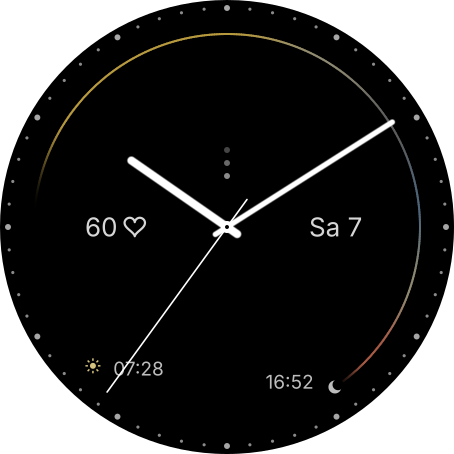
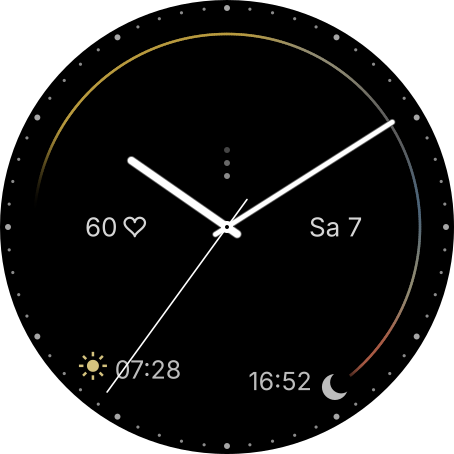
beta release 0.2.1

diff --git a/tools/render_previews.py b/tools/render_previews.py
@@ -41,18 +41,18 @@ def ticks():
 
 
 # Soft edge: two translucent layers (extra width, opacity) under the white core
-SOFT_EDGE = [(2.0, 0.25), (1.0, 0.5)]
+SOFT_EDGE = [(2.0, "#404040"), (1.0, "#808080")]   # white at 25 % / 50 % over black
 
 
 def hand(deg, length, tail, width, color="#ffffff", soft=True):
     # rounded bar drawn pointing up, then rotated around the centre
-    layers = (SOFT_EDGE if soft else []) + [(0.0, 1.0)]
+    layers = (SOFT_EDGE if soft else []) + [(0.0, color)]
     out = []
-    for extra, opacity in layers:
+    for extra, fill in layers:
         w = width + extra
         out.append(
             f'<rect x="{C - w / 2:.2f}" y="{C - length - extra / 2:.2f}" width="{w}" '
-            f'height="{length + tail + extra}" rx="{w / 2}" fill="{color}" fill-opacity="{opacity}" '
+            f'height="{length + tail + extra}" rx="{w / 2}" fill="{fill}" '
             f'transform="rotate({deg:.2f} {C} {C})"></rect>'
         )
     return "".join(out)
@@ -119,7 +119,7 @@ def _color_at(h):
     return WEATHER[FORECAST[-1][1]]
 
 
-def weather_arc(r, width=2):
+def weather_arc(r, width=2.5):
     now = (H % 12) + M / 60 + S / 3600
     end = SUNSET[0] - 12 + SUNSET[1] / 60 + 12  # keep 24 h value for colours
     out, step = [], 1 / 60
@@ -156,20 +156,20 @@ def extras():
     # day arc: from "now" (hour hand) to sunset, radius 193, in forecast colours
     r = 193
     out.append(weather_arc(r))
-    for (h, m), off in ((SUNRISE, -12), (SUNSET, 12)):
+    for (h, m), off in ((SUNRISE, -15), (SUNSET, 15)):
         x, y = ppt(r, dial(h, m))
         if (h, m) == SUNRISE:   # small sun: disc with eight rays
-            out.append(f'<circle cx="{x:.2f}" cy="{y:.2f}" r="3" fill="{SUN}"></circle>')
+            out.append(f'<circle cx="{x:.2f}" cy="{y:.2f}" r="6" fill="{SUN}"></circle>')
             for i in range(8):
                 a = math.radians(i * 45)
-                out.append(f'<line x1="{x + 5 * math.sin(a):.2f}" y1="{y - 5 * math.cos(a):.2f}" '
-                           f'x2="{x + 7.5 * math.sin(a):.2f}" y2="{y - 7.5 * math.cos(a):.2f}" '
-                           f'stroke="{SUN}" stroke-width="1.5"></line>')
+                out.append(f'<line x1="{x + 9.5 * math.sin(a):.2f}" y1="{y - 9.5 * math.cos(a):.2f}" '
+                           f'x2="{x + 14 * math.sin(a):.2f}" y2="{y - 14 * math.cos(a):.2f}" '
+                           f'stroke="{SUN}" stroke-width="2.5"></line>')
         else:                   # small crescent moon: disc with a black disc cut out
-            out.append(f'<circle cx="{x:.2f}" cy="{y:.2f}" r="6.5" fill="{TXT}"></circle>')
-            out.append(f'<circle cx="{x + 3.1:.2f}" cy="{y - 2.3:.2f}" r="5.5" fill="#000000"></circle>')
-        lx, ly = ppt(167, dial(h, m) + off)
-        out.append(text(lx, ly, f"{h:02d}:{m:02d}", 19, TXT))
+            out.append(f'<circle cx="{x:.2f}" cy="{y:.2f}" r="13" fill="{TXT}"></circle>')
+            out.append(f'<circle cx="{x + 6.2:.2f}" cy="{y - 4.6:.2f}" r="11" fill="#000000"></circle>')
+        lx, ly = ppt(163, dial(h, m) + off)
+        out.append(text(lx, ly, f"{h:02d}:{m:02d}", 25, TXT))
     # date and heart rate
     # date and heart: inner edges 82 px from the centre, heart exactly as tall as the digits
     size = 26

diff --git a/README.md b/README.md
@@ -19,7 +19,7 @@ Free, open-source watch faces for Garmin® smartwatches, built with the Connect 
   - Softly coloured by the hourly forecast: muted yellow for sun, grey for clouds, blue-grey for rain, cool grey for snow, evening red before a clear sunset. Colours blend smoothly from hour to hour.
   - Fades in about an hour before the hour hand and fades out towards sunset.
   - Sunrise is marked with a small yellowish sun, sunset with a small crescent moon, each with its time (12/24-hour as set on the watch).
-  - At night a dark grey arc runs to the next sunrise. Without weather data the arc stays grey.
+  - At night the arc is hidden; only the sun and moon markers with their times remain. Without weather data the arc stays grey.
 - **Date** at 3 o'clock, e.g. "Sa 7", in your watch's language.
 - **Heart rate** at 9 o'clock: the heart is always there, exactly as tall as the date digits; the number appears to its left only while a live reading is available.
 - **Notifications:** one small dot per unread phone notification, stacked towards 12 o'clock and fading as they go up. **Press and hold** the dots to open the notification list.
@@ -38,7 +38,7 @@ The second hand is only visible while the watch is "awake" (after a wrist turn o
 ### Privacy and permissions
 
 - No internet access of its own, no background service, no data collection, no tracking.
-- Permission **ComplicationSubscriber**: reads sunrise, sunset and the date from the watch, and opens the notification list.
+- Permission **ComplicationSubscriber**: fallback for sunrise and sunset, and opening the notification list.
 - Weather comes from the watch's own weather data (delivered by the Garmin Connect app); the heart rate from the watch's sensor.
 
 ### Supported watches
@@ -150,13 +150,13 @@ tools/render_previews.py       regenerates the preview image and the launcher ic
 
 | Shown | Source |
 |---|---|
-| Sunrise, sunset | native complications `COMPLICATION_TYPE_SUNRISE/SUNSET` |
-| Date | native complication `COMPLICATION_TYPE_WEEKDAY_MONTHDAY`, fallback `Time.Gregorian` |
+| Sunrise, sunset | `Weather.getSunrise/getSunset` for the weather location, fallback: native complications `COMPLICATION_TYPE_SUNRISE/SUNSET` |
+| Date | `Time.Gregorian` (weekday abbreviation in the watch's language, day without leading zero) |
 | Day arc colours | `Weather.getCurrentConditions()` and `Weather.getHourlyForecast()`, rebuilt every 10 minutes |
 | Heart rate | `Activity.getActivityInfo().currentHeartRate` (live value only) |
 | Notifications | `System.getDeviceSettings().notificationCount`; press-and-hold opens `COMPLICATION_TYPE_NOTIFICATION_COUNT` |
 
-Drawing notes: hands are filled polygons, so fractional widths work with anti-aliasing; their soft edge is two translucent layers. On devices with `Dc.setFill`, the fill tool overrides `setColor`, so colours are always set with both (`setFg()` in the view, also in the barrel). `drawArc` only takes whole degrees, so the day arc is drawn in 1–2° pieces.
+Drawing notes: hands are filled polygons, so fractional widths work with anti-aliasing; their soft edge is two slightly wider grey layers (white at 25 % and 50 % over black). Colours are only set with `setColor`: the alpha fill tool `setFill` is avoided, because opaque white as ARGB (`0xFFFFFFFF`) equals `-1`, which Connect IQ treats as `COLOR_TRANSPARENT`. Text is positioned by its cap height (derived from `getFontAscent`), so digits and the heart line up exactly. Sunrise and sunset come from `Weather.getSunrise/getSunset` for the weather location (falling back to the native complications). `drawArc` only takes whole degrees, so the day arc is drawn in 1–2° pieces.
 
 ## Notification dots as a reusable module
 
